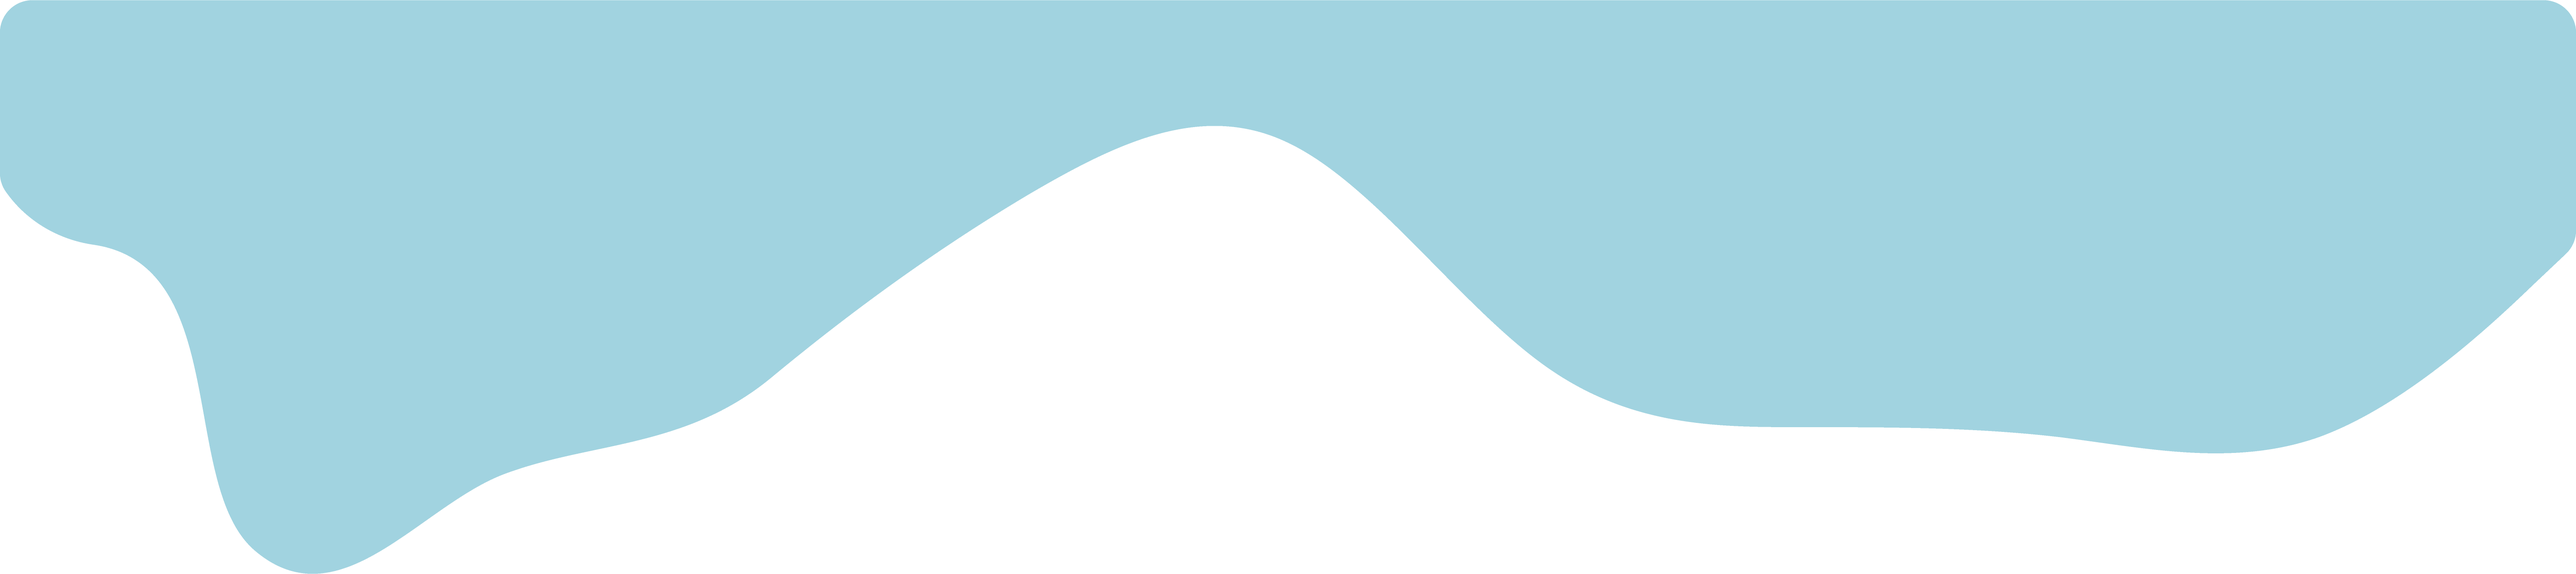
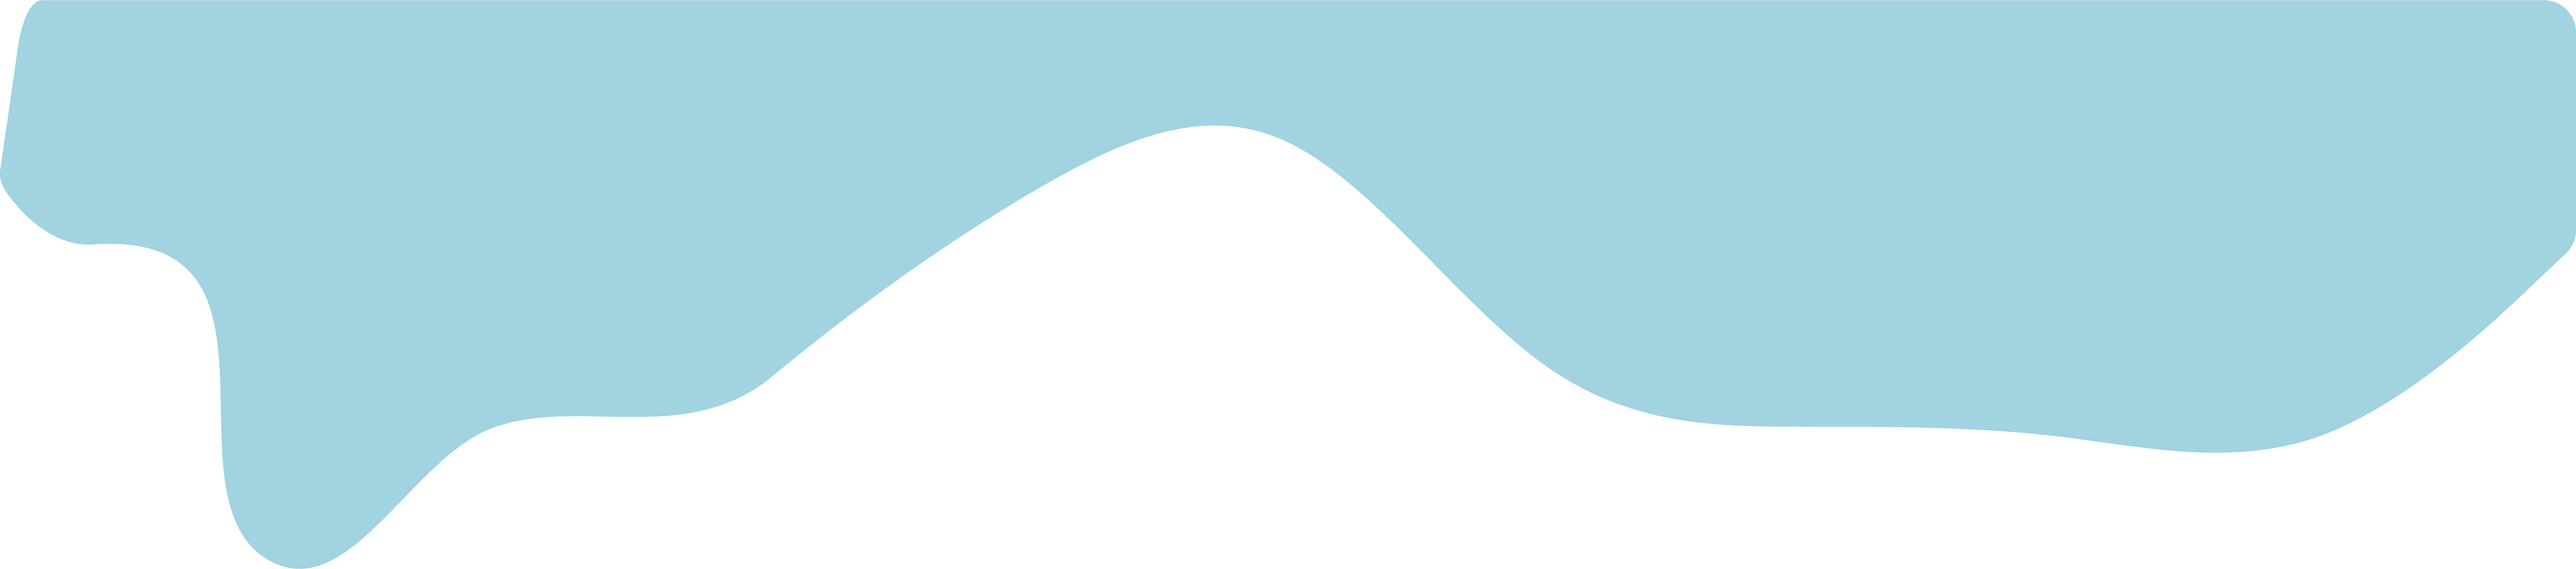
KYC UI slight changes

diff --git a/public/css/KYC.css b/public/css/KYC.css
@@ -5,8 +5,7 @@
 * ==========================================
 *
 */
-@import url('https://fonts.googleapis.com/css2?family=Montserrat:wght@300;400&display=swap');
-@import url('https://fonts.googleapis.com/css2?family=Montserrat:wght@700&display=swap');
+@import url('https://fonts.googleapis.com/css2?family=Montserrat:ital,wght@0,100;0,200;0,300;0,400;0,500;0,600;0,700;0,800;0,900;1,100;1,200;1,300;1,400;1,500;1,600;1,700;1,800;1,900&display=swap');
 
 :root{
     font-size: 100%;
@@ -96,7 +95,7 @@ a:hover{
     content: 'Uploaded image result';
     margin: 0%;
     text-align: center;
-    color: rgba(0, 0, 0, 0.5);
+    color: rgba(0, 0, 0, 0.712);
     font-weight: bold;
     text-transform: uppercase;
     position: absolute;
@@ -105,11 +104,19 @@ a:hover{
     transform: translate(-50%, -50%);
     font-size: 0.8rem;
     z-index: 1;
+    
 }
 
 .image-area img {
     z-index: 2;
     position: relative;
+}
+
+.font-italic.text-center{
+    color: rgba(0, 0, 0, 0.712);
+    font-family: 'Montserrat' ,sans-serif;
+    font-weight: 500;
+    font-size: 1.5em;
 }
 
 
@@ -127,10 +134,9 @@ body {
     font-family: 'Montserrat',sans-serif;
     /* background-color: #757f9a; */
     /* background-image: linear-gradient(147deg, #757f9a 0%, #d7dde8 100%); */
-    background-image: url(/img/wavelogin.png);
+    background-image: url(/img/waveKYC.png);
     background-size: cover;
-    background-repeat: no-repeat;
-    
+    background-repeat: no-repeat;   
 }
 
 .btn-pink {
@@ -170,4 +176,9 @@ body {
 .signup-btn:hover{
     background: #3a7ca5;
     cursor: pointer;
+}
+
+.input-group.mb-3.px-2.py-2.bg-white.shadow-sm{
+    border-radius: 1rem;
+    box-shadow: 0px 0px 18px 1px rgba(0,0,0,0.47);
 }
